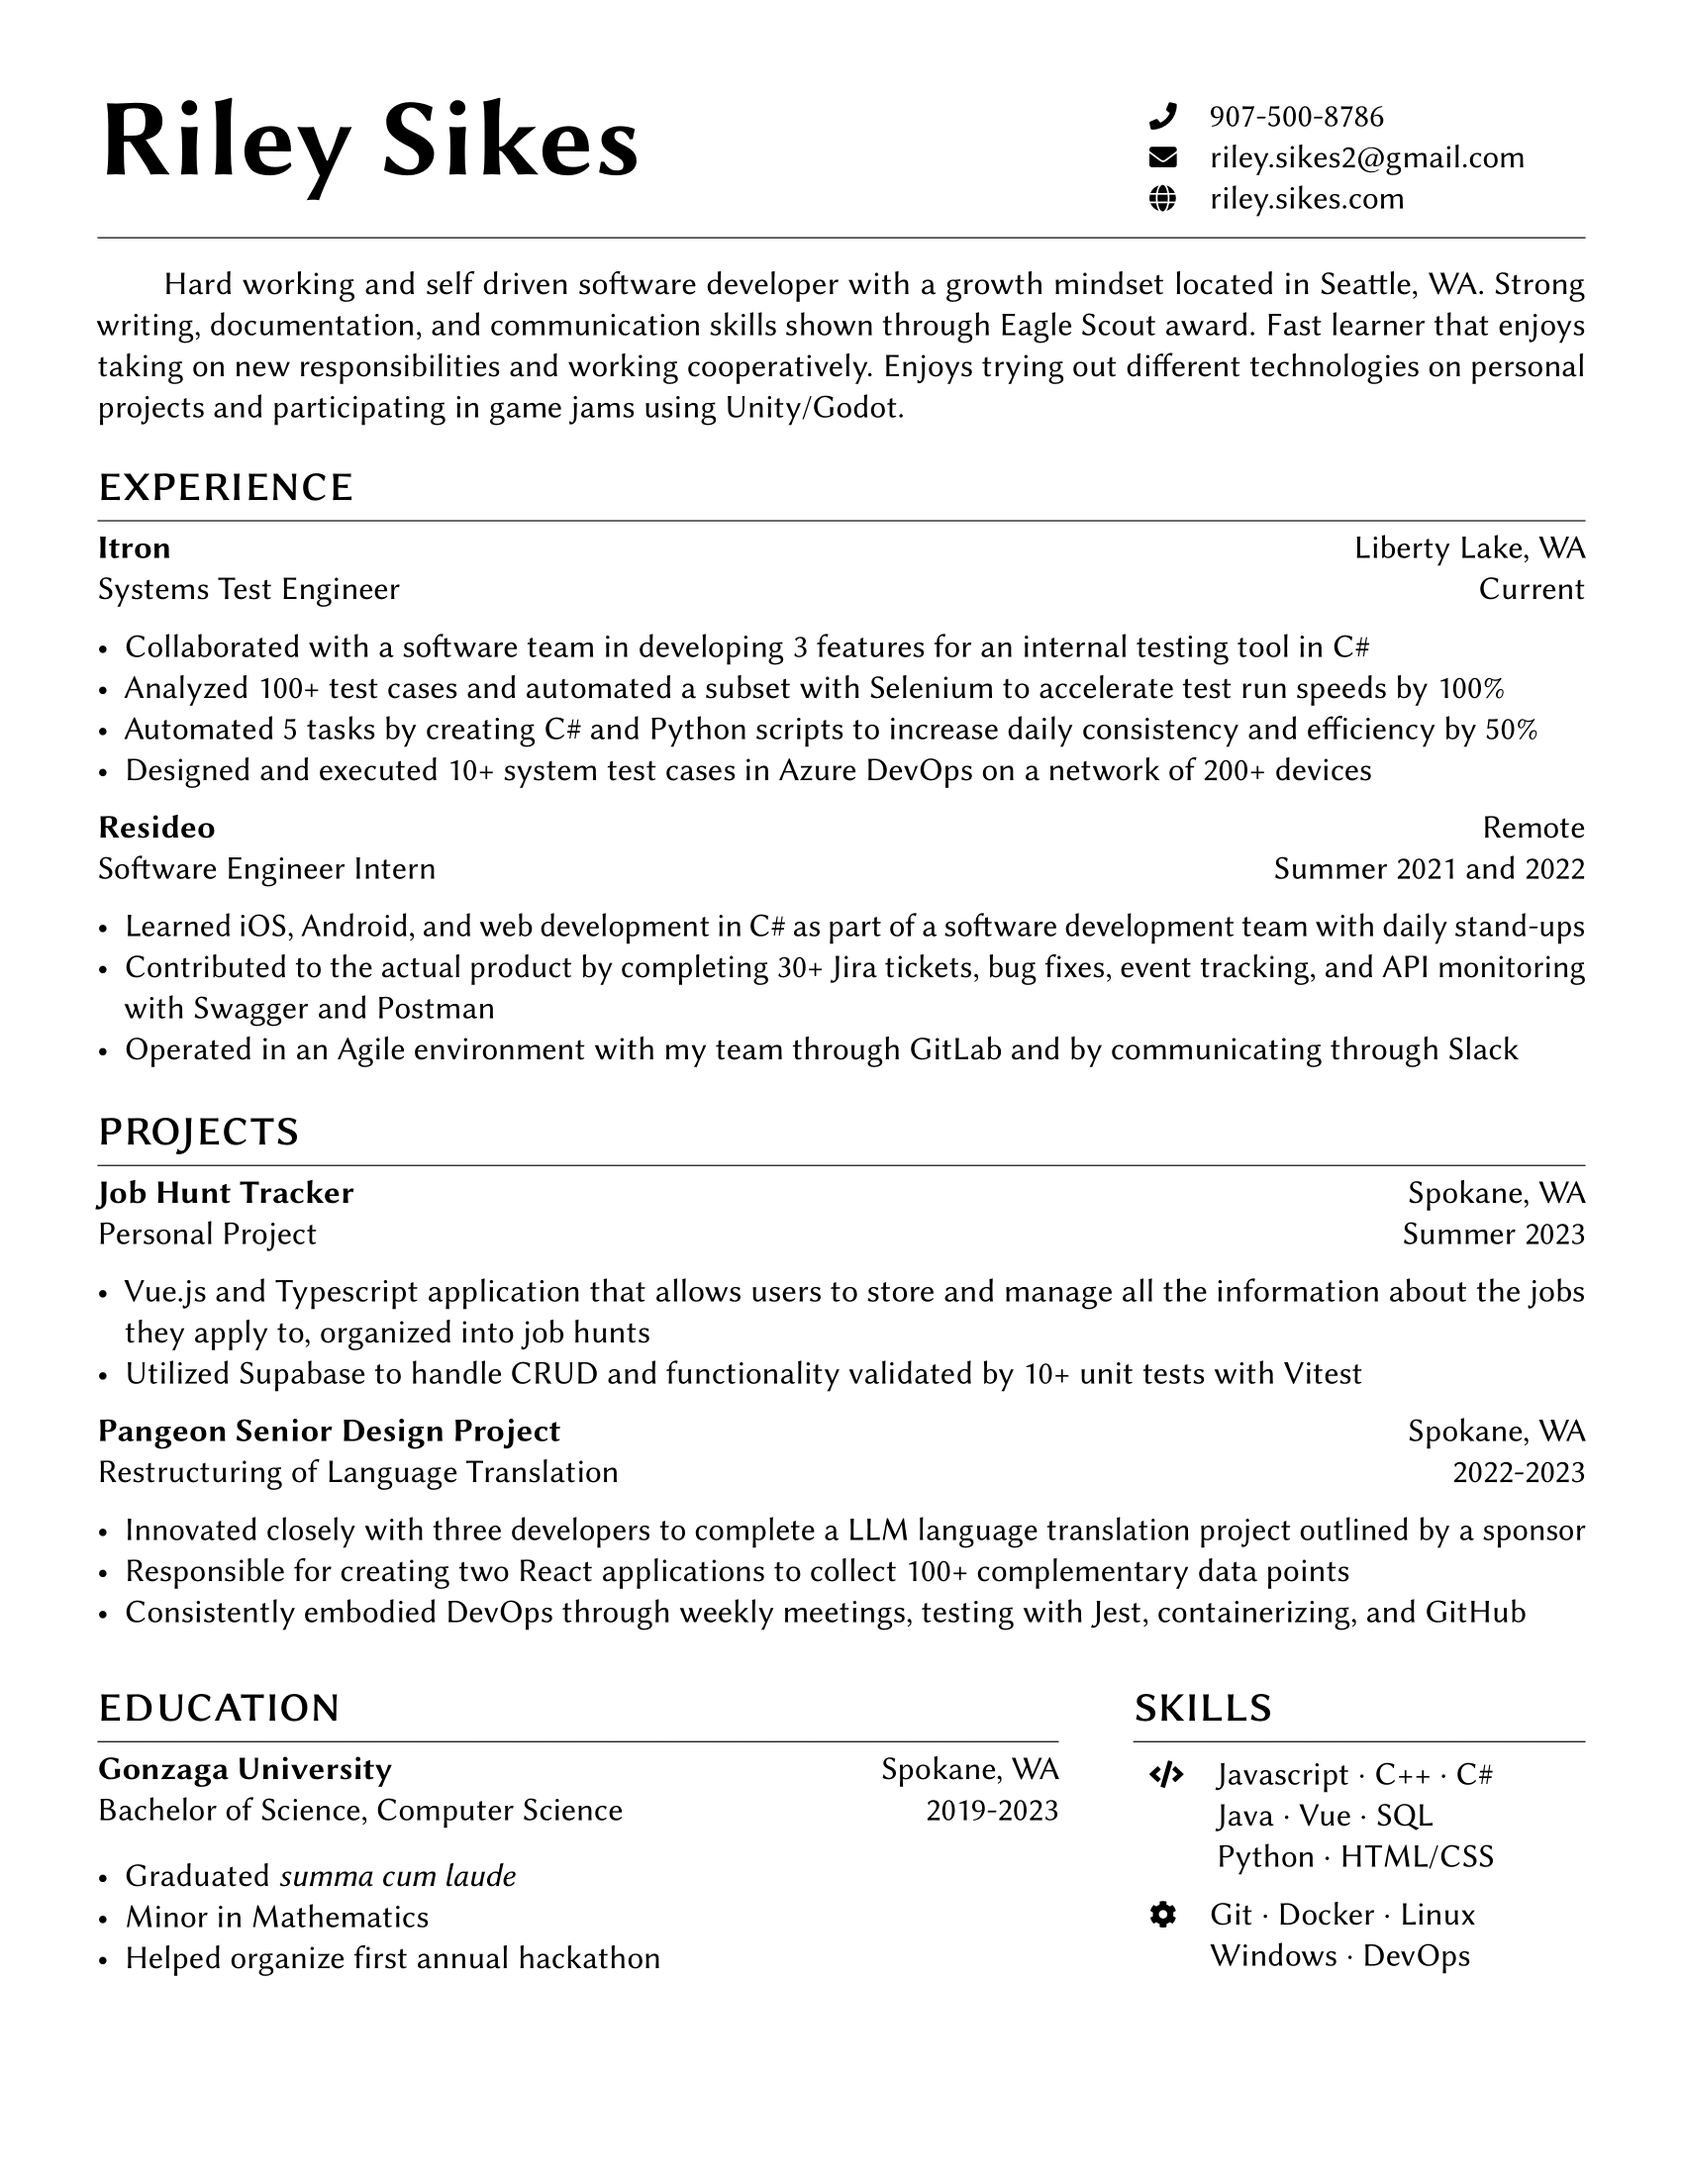
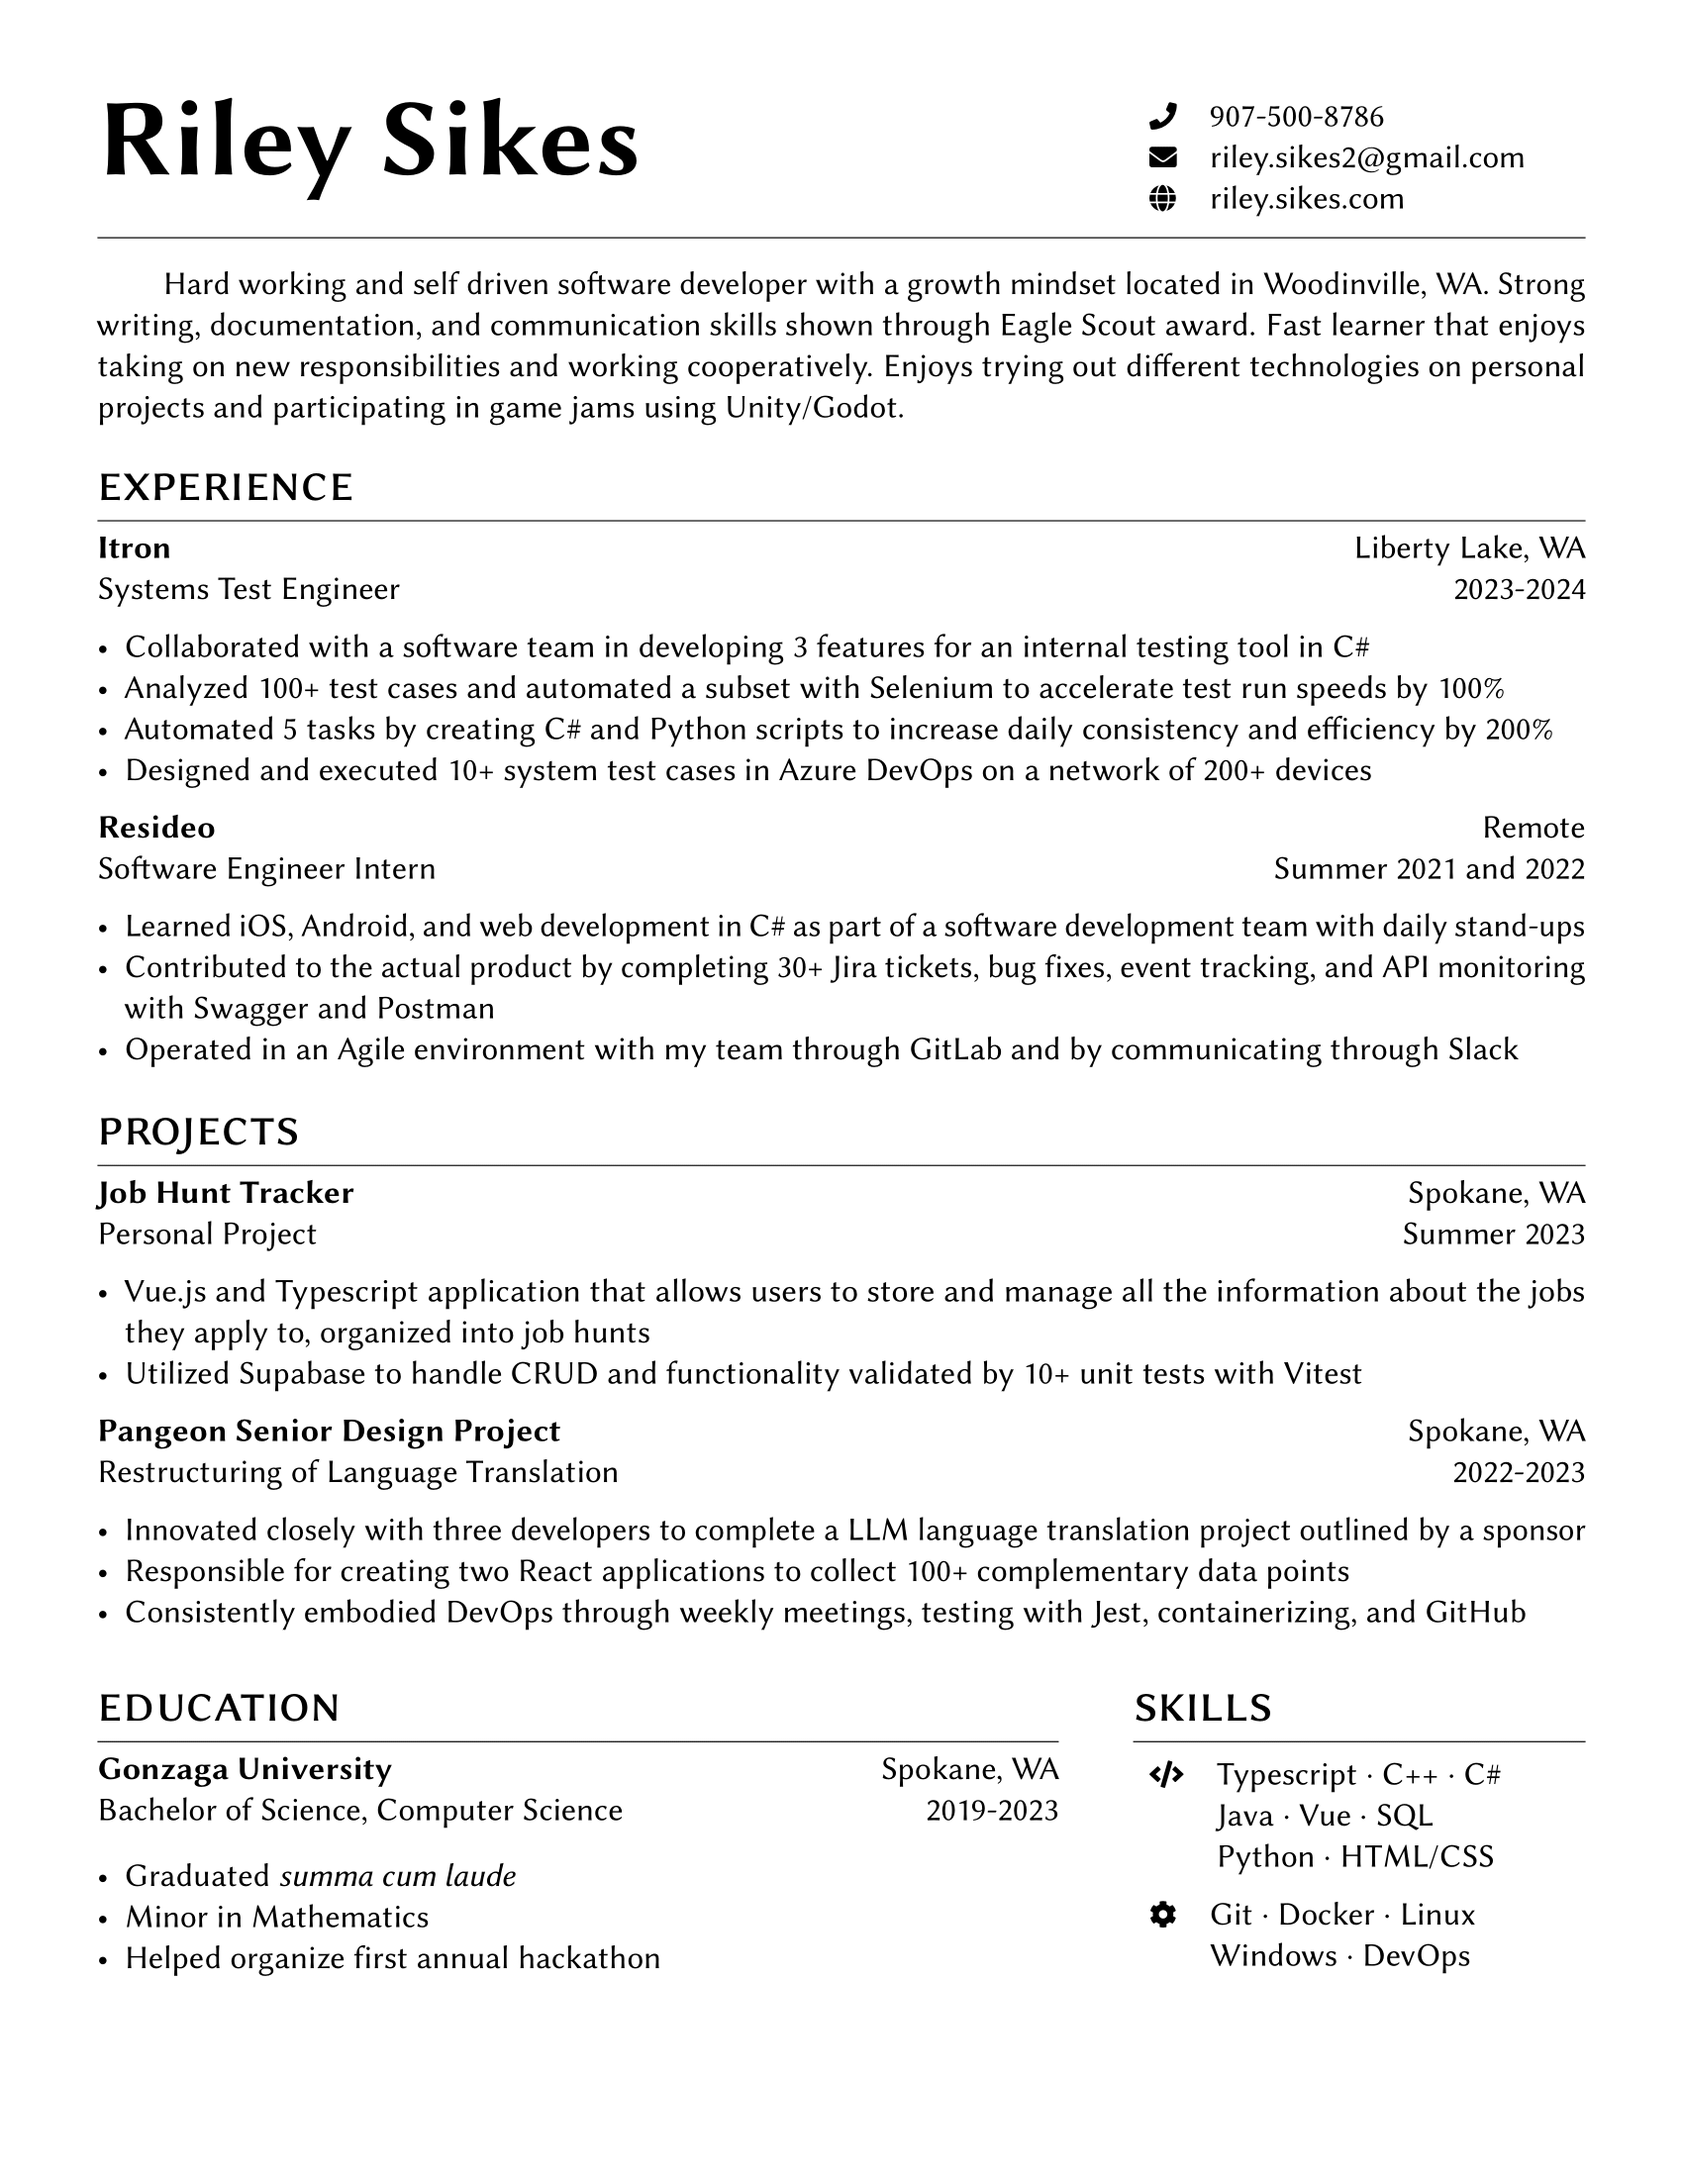
updated info for move and new job hunt

Changed region(s): [[0.1247, 0.1236, 0.9353, 0.1545], [0.7171, 0.8036, 0.8418, 0.8345], [0.8729, 0.2473, 0.9353, 0.2782]]

diff --git a/sveltefolio/src/routes/+page.svelte b/sveltefolio/src/routes/+page.svelte
@@ -5,10 +5,10 @@
         <p>907riley@gmail.com</p> 
     </div>
     <p class="paragraph-wrapper">
-        First update of the new year! I recently decided to chop my hair that I’d been growing out for almost two years. My goal was to be able to put it back into a ponytail and I achieved that which was fun, but I started to quickly get tired of it getting in the way. It also took forever to air dry after showering. So now I have my normal short hair back and it feels so much better.
+        It’s official, my girlfriend and I have moved to the Seattle area for an amazing job opportunity she was offered. Moving over here in the future was an idea we had played around with, but always thought it would happen in 5 years or so, not months. But when an opportunity like this one presents itself, sometimes it’s best to get out of your comfort zone and hold on for the ride (this also sums up my experience driving a packed uhaul across the state on the subpar roads). So far we have both been loving our new place and the surrounding area.
     </p>
     <p class="paragraph-wrapper">
-        In terms of game development, I decided to drop or at least put my Show Off game on hold. I was getting quite frustrated working on it and it became a lot less enjoyable to work on. Someone else released a very similar game to what I had envisioned which was a little demoralizing. I can see myself picking it back up one day when I have more experience working with the Godot engine and 3D in general, but for now it is sidelined. I am working on a new project with a friend that we intend on releasing on Steam at some point. I might post some stuff about it at some point, but for now I’m going to leave it at that.
+        I did have to leave my job at Itron as I wasn’t able to continue working remotely. It was tough to say goodbye to all my coworkers that I had gotten to know, since I had only recently started there late last year, but it was the right decision. I learned a lot working there and would definitely recommend it to anyone in the Spokane/Liberty Lake area looking for a tech related job in a great community environment. This also means that I’m back in the market for a job. So if you know of any software engineering positions (or related fields) that need filling, don’t be shy to reach out. As of writing this on April 23rd, I have applied to just over 200 jobs. Hopefully all the time applying to jobs starts to bear fruit or I might have to get creative.
     </p>
     <p class="paragraph-wrapper">
         Here’s some more cat pictures. Enjoy.

diff --git a/sveltefolio/src/routes/about/+page.svelte b/sveltefolio/src/routes/about/+page.svelte
@@ -5,7 +5,7 @@
             I grew up in Juneau, AK until moving to Spokane, WA to pursue a computer science degree at Gonzaga University. I attribute my interest in programming to my involvement in the FIRST robotics programs starting in elementary school, culminating in my senior year in high school where my team won our state competition to qualify for the worlds competition in Houston, TX. I was never a programmer in robotics so I always thought I wanted to be an engineer until I took an AP computer science course my senior year of high school. After taking that class I knew I wanted to learn more. 
         </p>
         <p class="paragraph-wrapper">
-            I graduated May 2023 with a B.S in Computer Science along with a Minor in Mathematics. I'm currently still living in Spokane, enjoying my free time working on some projects while I search for a job.
+            I graduated May 2023 with a B.S in Computer Science along with a Minor in Mathematics. I recently moved to Woodinville, WA with my girlfriend in April of 2024 for her job. Currently I'm spending my time applying to jobs and working on a game project with a friend.
         </p>
     </div>
     <div class="content-wrapper">
@@ -18,7 +18,7 @@
         <img id="laying-out" src="ultimate.gif" alt="Video of me playing ultimate"/>
         <p class="image-caption">Actual footage of me bidding while playing ultimate</p>
         <p class="paragraph-wrapper">
-            Outside of programming, I spend a lot of my time playing ultimate frisbee, disc golfing, and in the gym. I recently joined a club Ultimate team in Spokane that I am stoked about and I've been getting in some casual disc golf as a break from working on my projects. I also enjoy playing video games occasionally, but I haven't had much time lately for them. Some of my all time favorite games are Pokemon (specifically gen 4 and 5), Stardew Valley, Minecraft, Dredge, The Forest, and Rock Band.
+            Outside of programming, I spend a lot of my time playing ultimate frisbee, disc golfing, and in the gym. I've been getting in some casual disc golf as a break from working on my projects. I also enjoy playing video games occasionally, but I haven't had much time lately for them. Some of my all time favorite games are Pokemon (specifically gen 4 and 5), Stardew Valley, Minecraft, Dredge, Helldivers II, The Forest, and Rock Band.
         </p>
     </div>
 </div>

diff --git a/sveltefolio/src/routes/projects/current/+page.svelte b/sveltefolio/src/routes/projects/current/+page.svelte
@@ -1,11 +1,11 @@
 <main>
     <div class="content-wrapper">
         <div class="date-wrapper">
-            March 03, 2024
+            April 24, 2024
         </div>
         <div class="meat-wrapper">
             <p class="paragraph-wrapper">
-                Stay tuned for updates on a new project I'm working on with a friend!
+                Stay tuned for updates on a new project I'm working on with a friend! We're close to being at a good point to start taking screenshots to share.
             </p>
         </div>
     </div>

diff --git a/sveltefolio/src/routes/resume/+page.svelte b/sveltefolio/src/routes/resume/+page.svelte
@@ -1,5 +1,5 @@
 <div>
     <div class="content-wrapper">
-        <img src='/Resume_Sikes-1.png' alt="My resume as of March 3rd, 2024"/>
+        <img src='/Resume_Sikes-1.png' alt="My resume as of April 24th, 2024"/>
     </div>
 </div>
